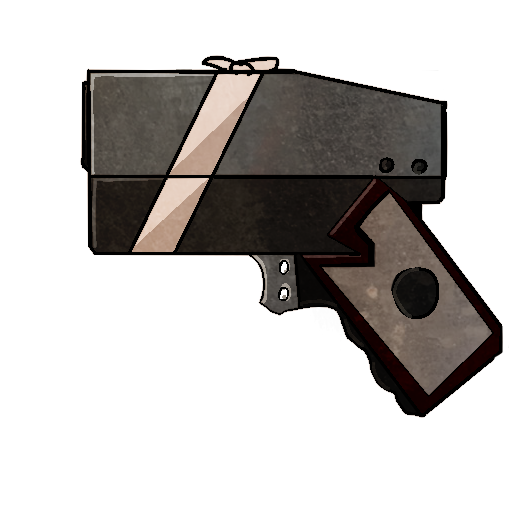
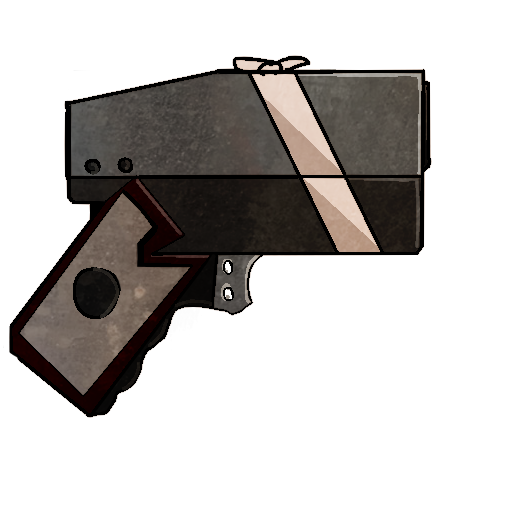
guns are now normal sized and rotate properly

diff --git a/Game engine/src/gameObjects/Player.java b/Game engine/src/gameObjects/Player.java
@@ -159,8 +159,13 @@ public class Player extends GameObject{
 		g2d.drawImage(idleSprite.getCurrentFrame(), x, y, rBox.width, rBox.height, null);
 		if(debug) g2d.draw(rBox);
 		g2d.rotate(gunAngle, rBox.getCenterX(), rBox.getCenterY());
-		g2d.drawImage(activeGun.getSprite(), (int)(rBox.getCenterX()) + 10, (int)(rBox.getCenterY()) - 10, null);
-		if(debug) g2d.drawLine((int)(rBox.getCenterX()), (int)(rBox.getCenterY()), (int)(rBox.getCenterX() + 100), (int)(rBox.getCenterY()));
+		if(Math.abs(gunAngle) > 1) {
+			g2d.drawImage(activeGun.getSprite(), (int)(rBox.getCenterX()) + 10, (int)(rBox.getCenterY()) + 20, 50, -50, null);
+		}else {
+			g2d.drawImage(activeGun.getSprite(), (int)(rBox.getCenterX()) + 10, (int)(rBox.getCenterY()) - 20, 50, 50, null);
+		}
+		
+		//if(debug) g2d.drawLine((int)(rBox.getCenterX()), (int)(rBox.getCenterY()), (int)(rBox.getCenterX() + 100), (int)(rBox.getCenterY()));
 		g2d.rotate(-gunAngle, rBox.getCenterX(), rBox.getCenterY());
 	}
 	/**

diff --git a/Game engine/src/gameObjects/Enemy.java b/Game engine/src/gameObjects/Enemy.java
@@ -72,7 +72,11 @@ public class Enemy extends GameObject{
 		g2d.drawImage(idleSprite.getCurrentFrame(), x, y, rBox.width, rBox.height, null);
 		
 		g2d.rotate(gunAngle, rBox.getCenterX(), rBox.getCenterY());
-		g2d.drawImage(activeGun.getSprite(), (int)(rBox.getCenterX()) + 10, (int)(rBox.getCenterY()) - 10, null);
+		if(Math.abs(gunAngle) > 1) {
+			g2d.drawImage(activeGun.getSprite(), (int)(rBox.getCenterX()) + 10, (int)(rBox.getCenterY()) + 20, 50, -50, null);
+		}else {
+			g2d.drawImage(activeGun.getSprite(), (int)(rBox.getCenterX()) + 10, (int)(rBox.getCenterY()) - 20, 50, 50, null);
+		}
 		if(debug) g2d.drawLine((int)(rBox.getCenterX()), (int)(rBox.getCenterY()), (int)(rBox.getCenterX() + 100), (int)(rBox.getCenterY()));
 		g2d.rotate(-gunAngle, rBox.getCenterX(), rBox.getCenterY());
 	}

diff --git a/Game engine/src/gameObjects/Gun.java b/Game engine/src/gameObjects/Gun.java
@@ -51,10 +51,7 @@ public class Gun extends Loot {
 		this.ammoInMag = maxAmmoInMag;
 		this.bulletVelocity = bulletVelocity;
 		this.bulletSize = bulletSize;
-		if(IsJar)
-			Sprite = getSpriteFromJar();
-		else
-			Sprite = getSpriteFromFolder();
+		Sprite = ImageLoader.BADGUN;
 		bulletSprite = null;
 	}
 	
